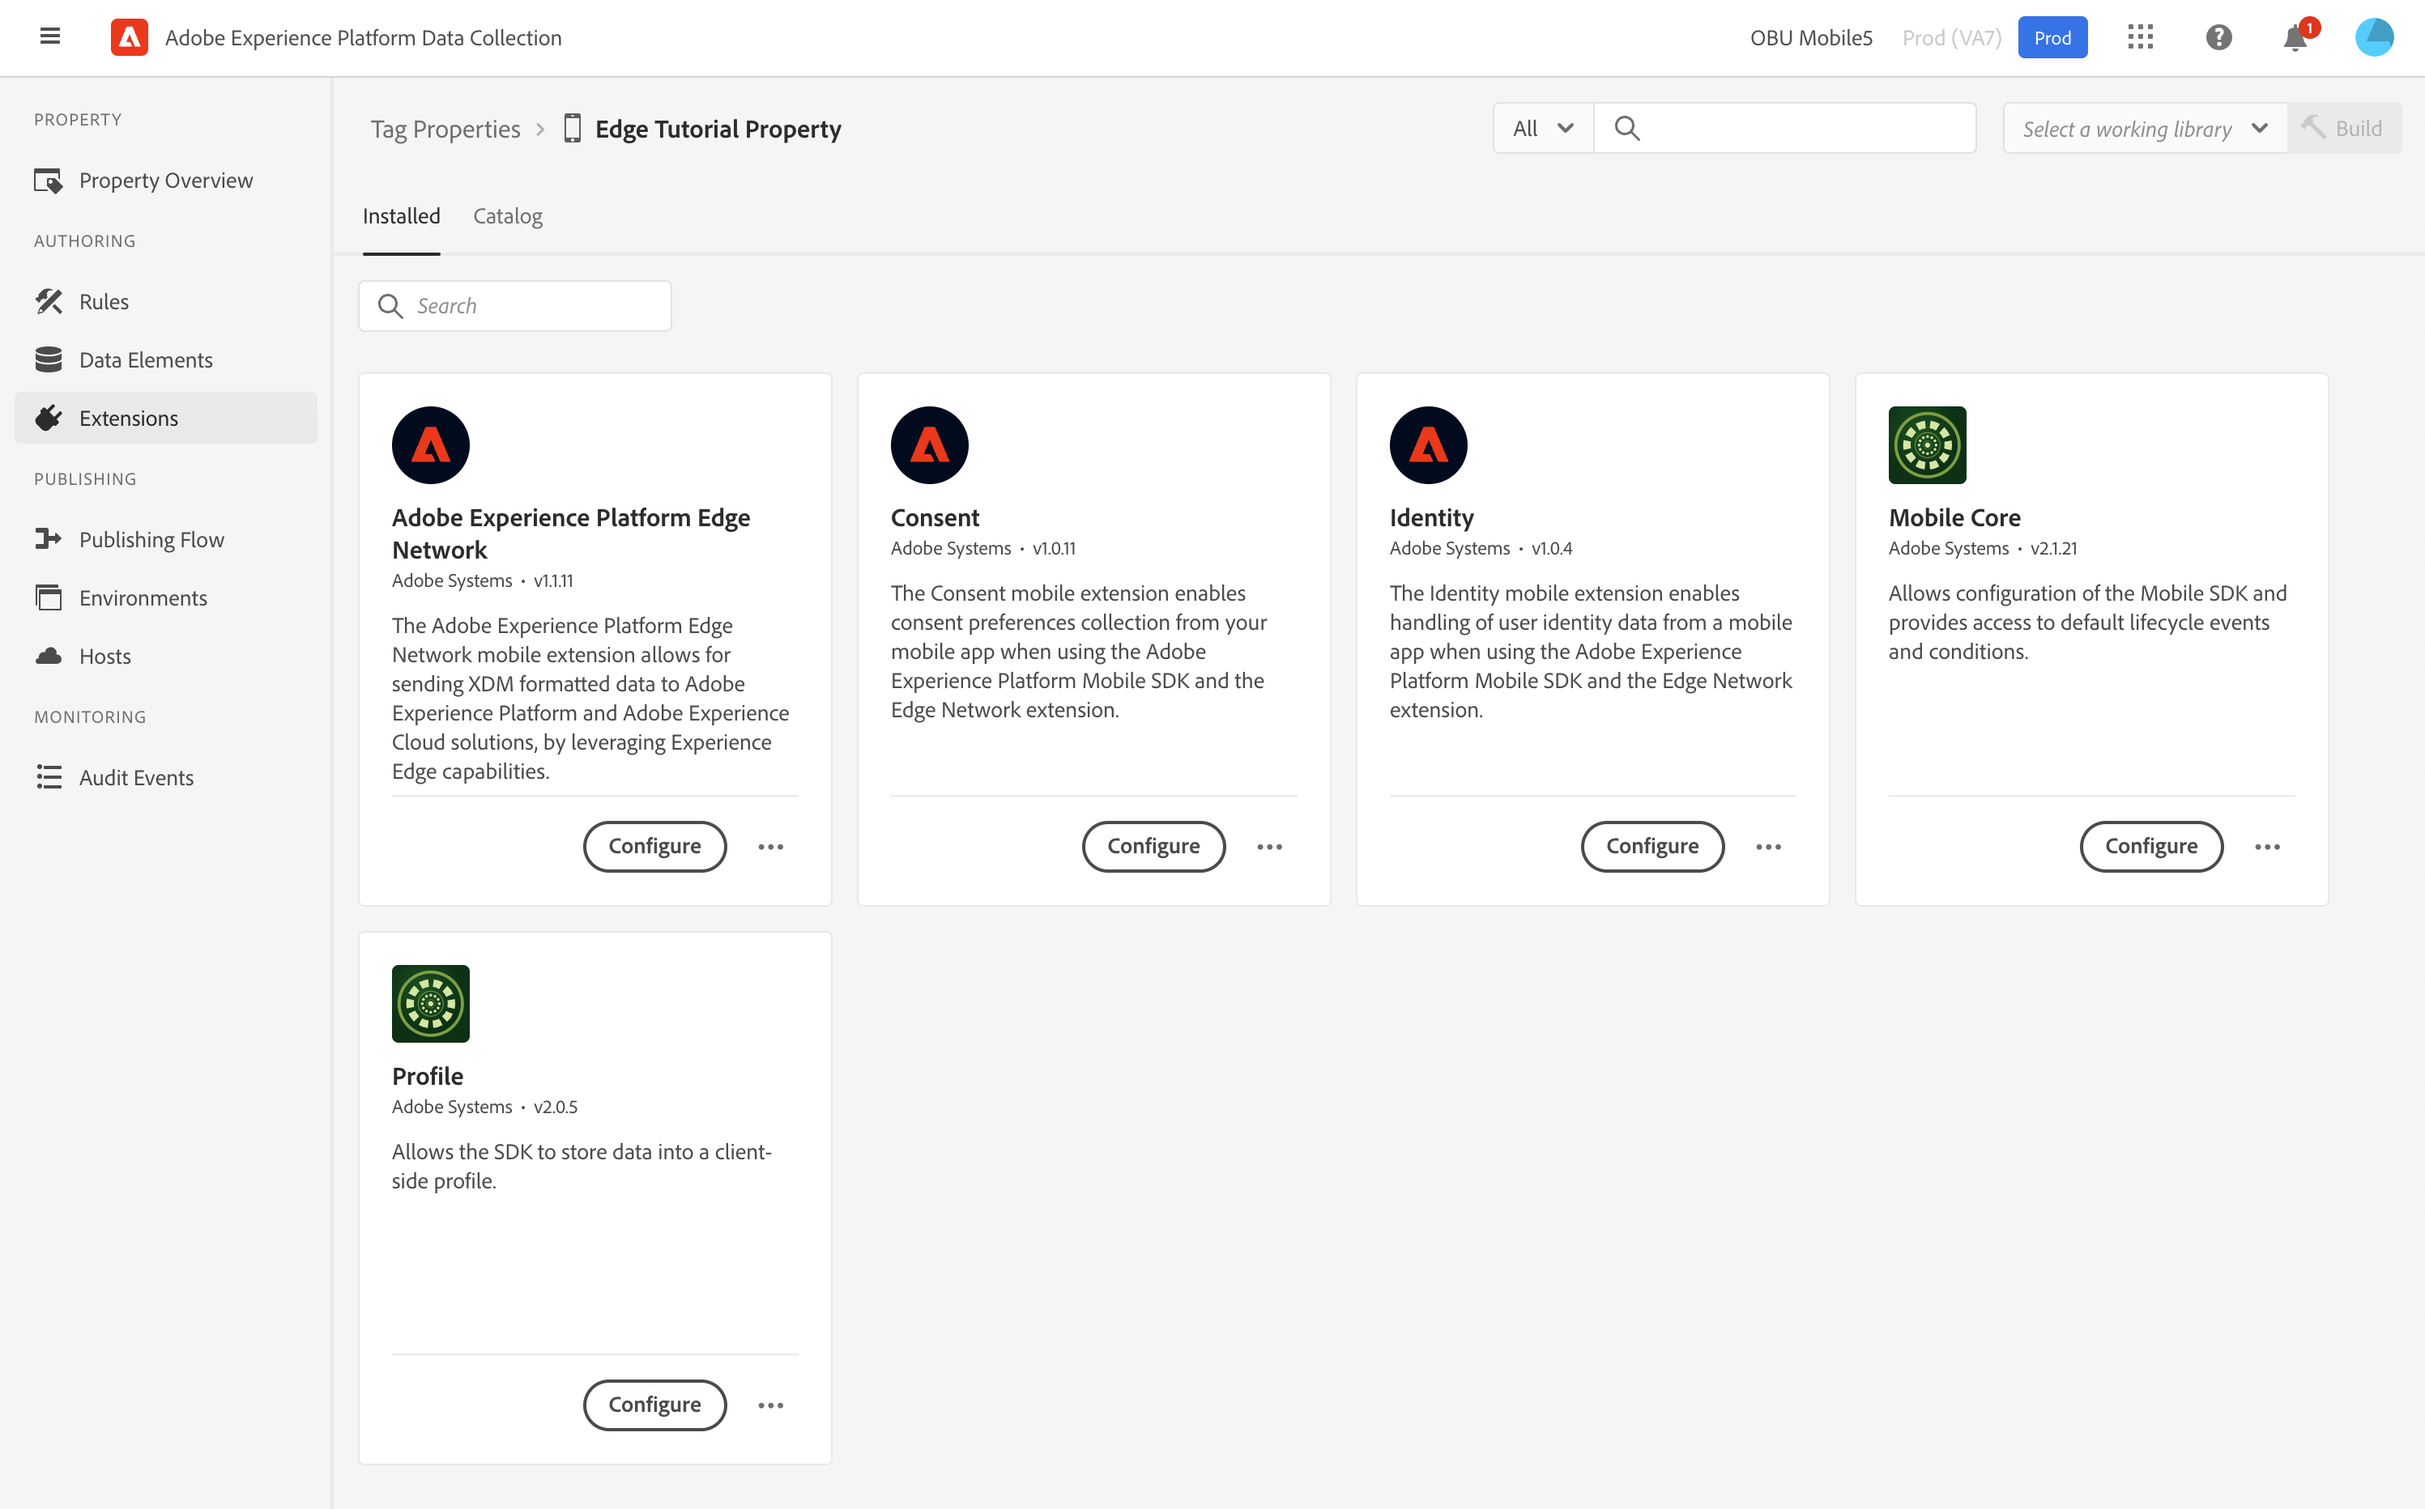
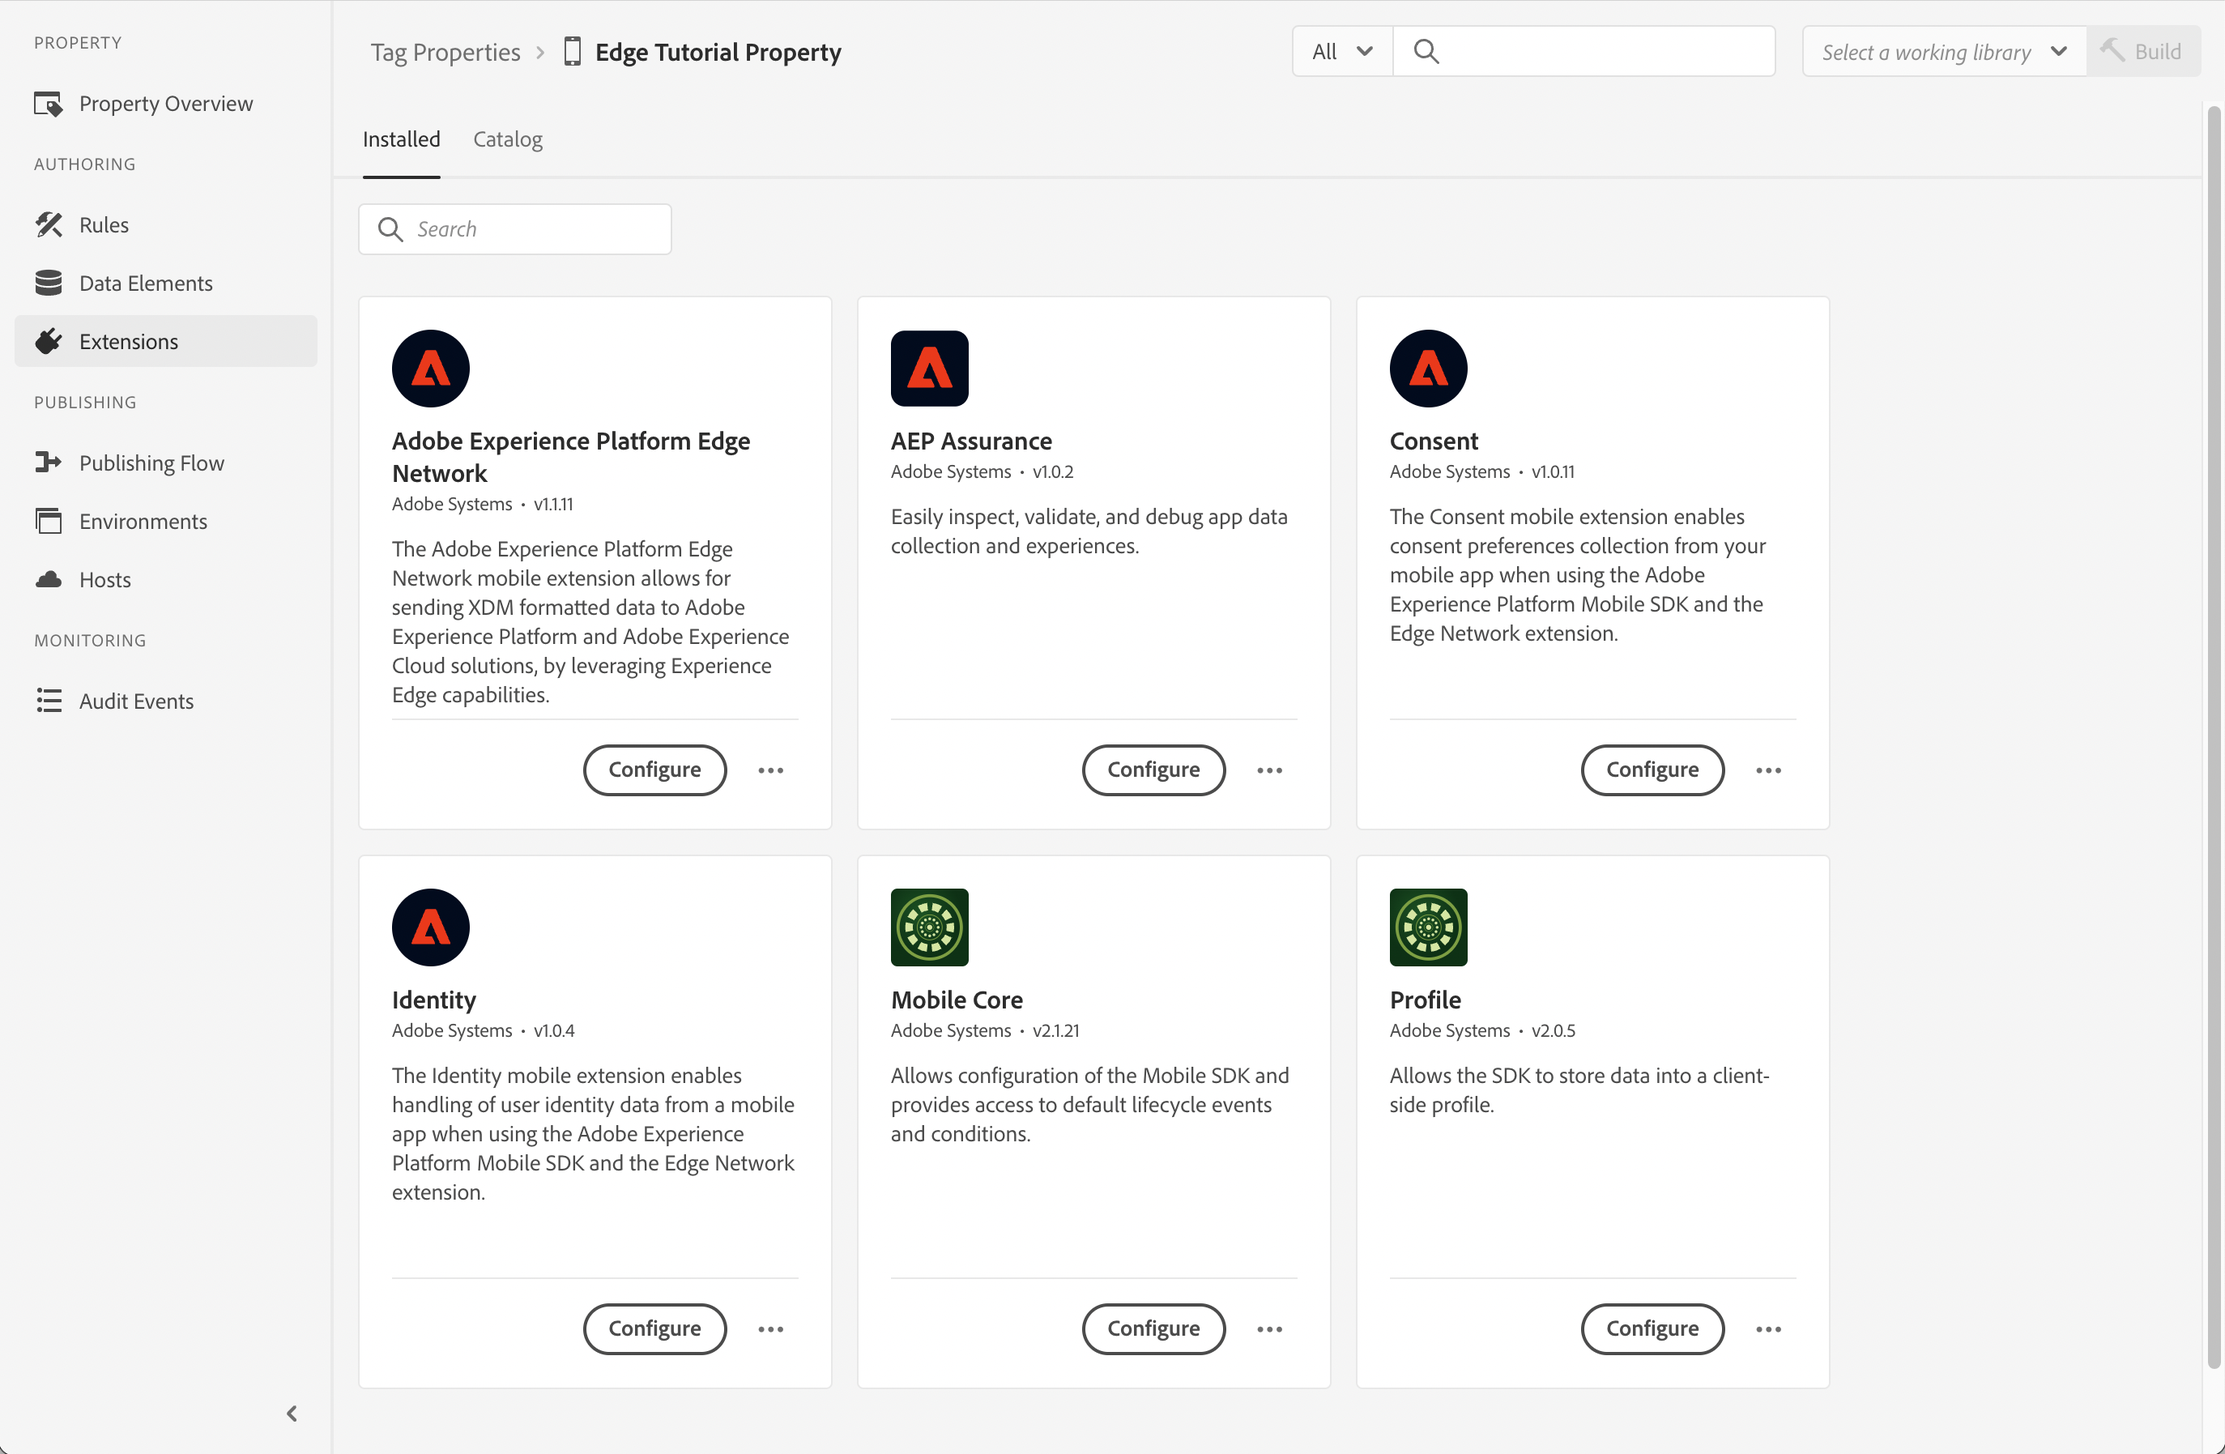
Update property extension installation to include assurance Update publishing steps update env id saving

diff --git a/Documentation/Tutorials/edge-send-event-tutorial.md b/Documentation/Tutorials/edge-send-event-tutorial.md
@@ -181,6 +181,15 @@ Click **Catalog** (**1**) and (optionally) use the search box (**2**) to find th
 We will be installing the following AEP extension configurations:
 
 <details>
+  <summary> AEP Assurance </summary><p>
+
+Open the **Catalog** and install the `AEP Assurance` extension configuration.
+
+<img src="../Assets/edge-send-event-tutorial/mobile-property-catalog-assurance.png" alt="Catalog search for Adobe Experience Platform Edge Network" width="1100"/>  
+
+</p></details>
+
+<details>
   <summary> Adobe Experience Platform Edge Network </summary><p>
 
 Open the **Catalog** and install the `Adobe Experience Platform Edge Network` extension configuration.
@@ -253,19 +262,23 @@ The Lifecycle for Edge Network extension dispatches application foreground and b
 #### Save the rule and rebuild your property <!-- omit in toc -->
 1. After you complete your configuration, verify that your rule looks like the following:
 2. Select Save.
-3. Rebuild your mobile property and deploy it to the correct environment.
 
 <img src="../Assets/edge-send-event-tutorial/lifecycle-rule-3.png" alt="All installed extensions" width="1100"/>  
 
 ### 5. Publish changes
 1. Click **Publishing Flow** under **PUBLISHING** in the left-side navigation window.
-2. Click **Add Library** in the top left.
-3. Set a name for the property, and set the environment to Development
-4. Click **Add All Changed Resources** 
-5. Click **Save & Build to Development**
+2. Click **Add Library** in the top right.
+3. Set a name (**1**) for the property, and set the environment to Development (**2**)
+4. Click **Add All Changed Resources** (**3**)
+5. Click **Save & Build to Development** (**4**)
+
+<img src="../Assets/edge-send-event-tutorial/mobile-property-publish.png" alt="All installed extensions" width="1100"/>  
 
 Once the mobile property is published to the Development environment, copy the unique ID assigned to the published property, as we will need it when setting up the app:
-1. Click the 
+1. Click the box icon next to the environment dropdown (**5**, from above)
+2. Click the double overlapping box (**1**) to the right of the property ID to copy it. Save this ID in a text file somewhere, to use later.
+
+<img src="../Assets/edge-send-event-tutorial/mobile-property-id.png" alt="All installed extensions" width="500"/>  
 
 ## Client-side implementation
 
@@ -292,7 +305,7 @@ cd
 
 <img src="../Assets/edge-send-event-tutorial/terminal-setup.png" alt="All installed extensions" width="1100"/>  
 
-1. Then press `return` to execute the command.
+8. Then press `return` to execute the command.
 
 <details>
   <summary> What is <code>cd</code>? What did I just do? </summary><p>
@@ -417,8 +430,7 @@ To:
 ```
 Make sure to uncomment all sections within the file (the total will tell you how many sections there are).
 
-<details>
-  <summary> What am I uncommenting in <code>AppDelegate.swift</code>? </summary><p>
+Code blocks in `AppDelegate.swift`:  
 
 **Section 1**: imports the various Edge extensions and other AEP extensions that enable sending event data to Edge, and power other features. The `import` statement makes it available to use in the code below.
 
@@ -429,12 +441,7 @@ Make sure to uncomment all sections within the file (the total will tell you how
 
 **Section 3**: Enables deep linking to connect to Assurance (which we will cover in depth in a later section); this is the method used for iOS versions 12 and below.
 
-</p></details>
-
-Repeat this process for the `SceneDelegate.swift` and `ContentView.swift` files.
-
-<details>
-  <summary> What am I uncommenting in <code>SceneDelegate.swift</code>? </summary><p>
+Code blocks in `SceneDelegate.swift`:
 
 **Section 1**: Imports the Assurance (covered later) and Core extensions for use in the code below.
 
@@ -448,18 +455,13 @@ Notice that both of these APIs rely on the developer to place them in the proper
 
 **Section 4**: Enables deep linking to connect to Assurance; this is the method used for iOS versions 13 and above.
 
-</p></details>
-
-<details>
-  <summary> What am I uncommenting in <code>ContentView.swift</code>? </summary><p>
+Code blocks in `ContentView.swift`:  
 
 **Section 1**: Imports the Core extension for use in the code below.
 
 **Section 2**: Creates an Experience Event with an event payload that conforms to the XDM schema we set up earlier. This event is an example of a product add.
 
 **Section 3**: Creates an Experience Event with an event payload that conforms to the XDM schema we set up earlier. This event is an example of a product view.
-
-</p></details>
 
 ### Consent for Edge extension <!-- omit in toc -->
 The [Consent for Edge](https://aep-sdks.gitbook.io/docs/foundation-extensions/consent-for-edge-network) mobile extension enables you to collect user data tracking consent preferences from your mobile app when using AEP and the Edge extension. The default consent settings should be set in alignment with your organization's user data privacy requirements. See the guide on [ingesting data using the Consents and Preferences data type](https://experienceleague.adobe.com/docs/experience-platform/xdm/data-types/consents.html#ingest).
